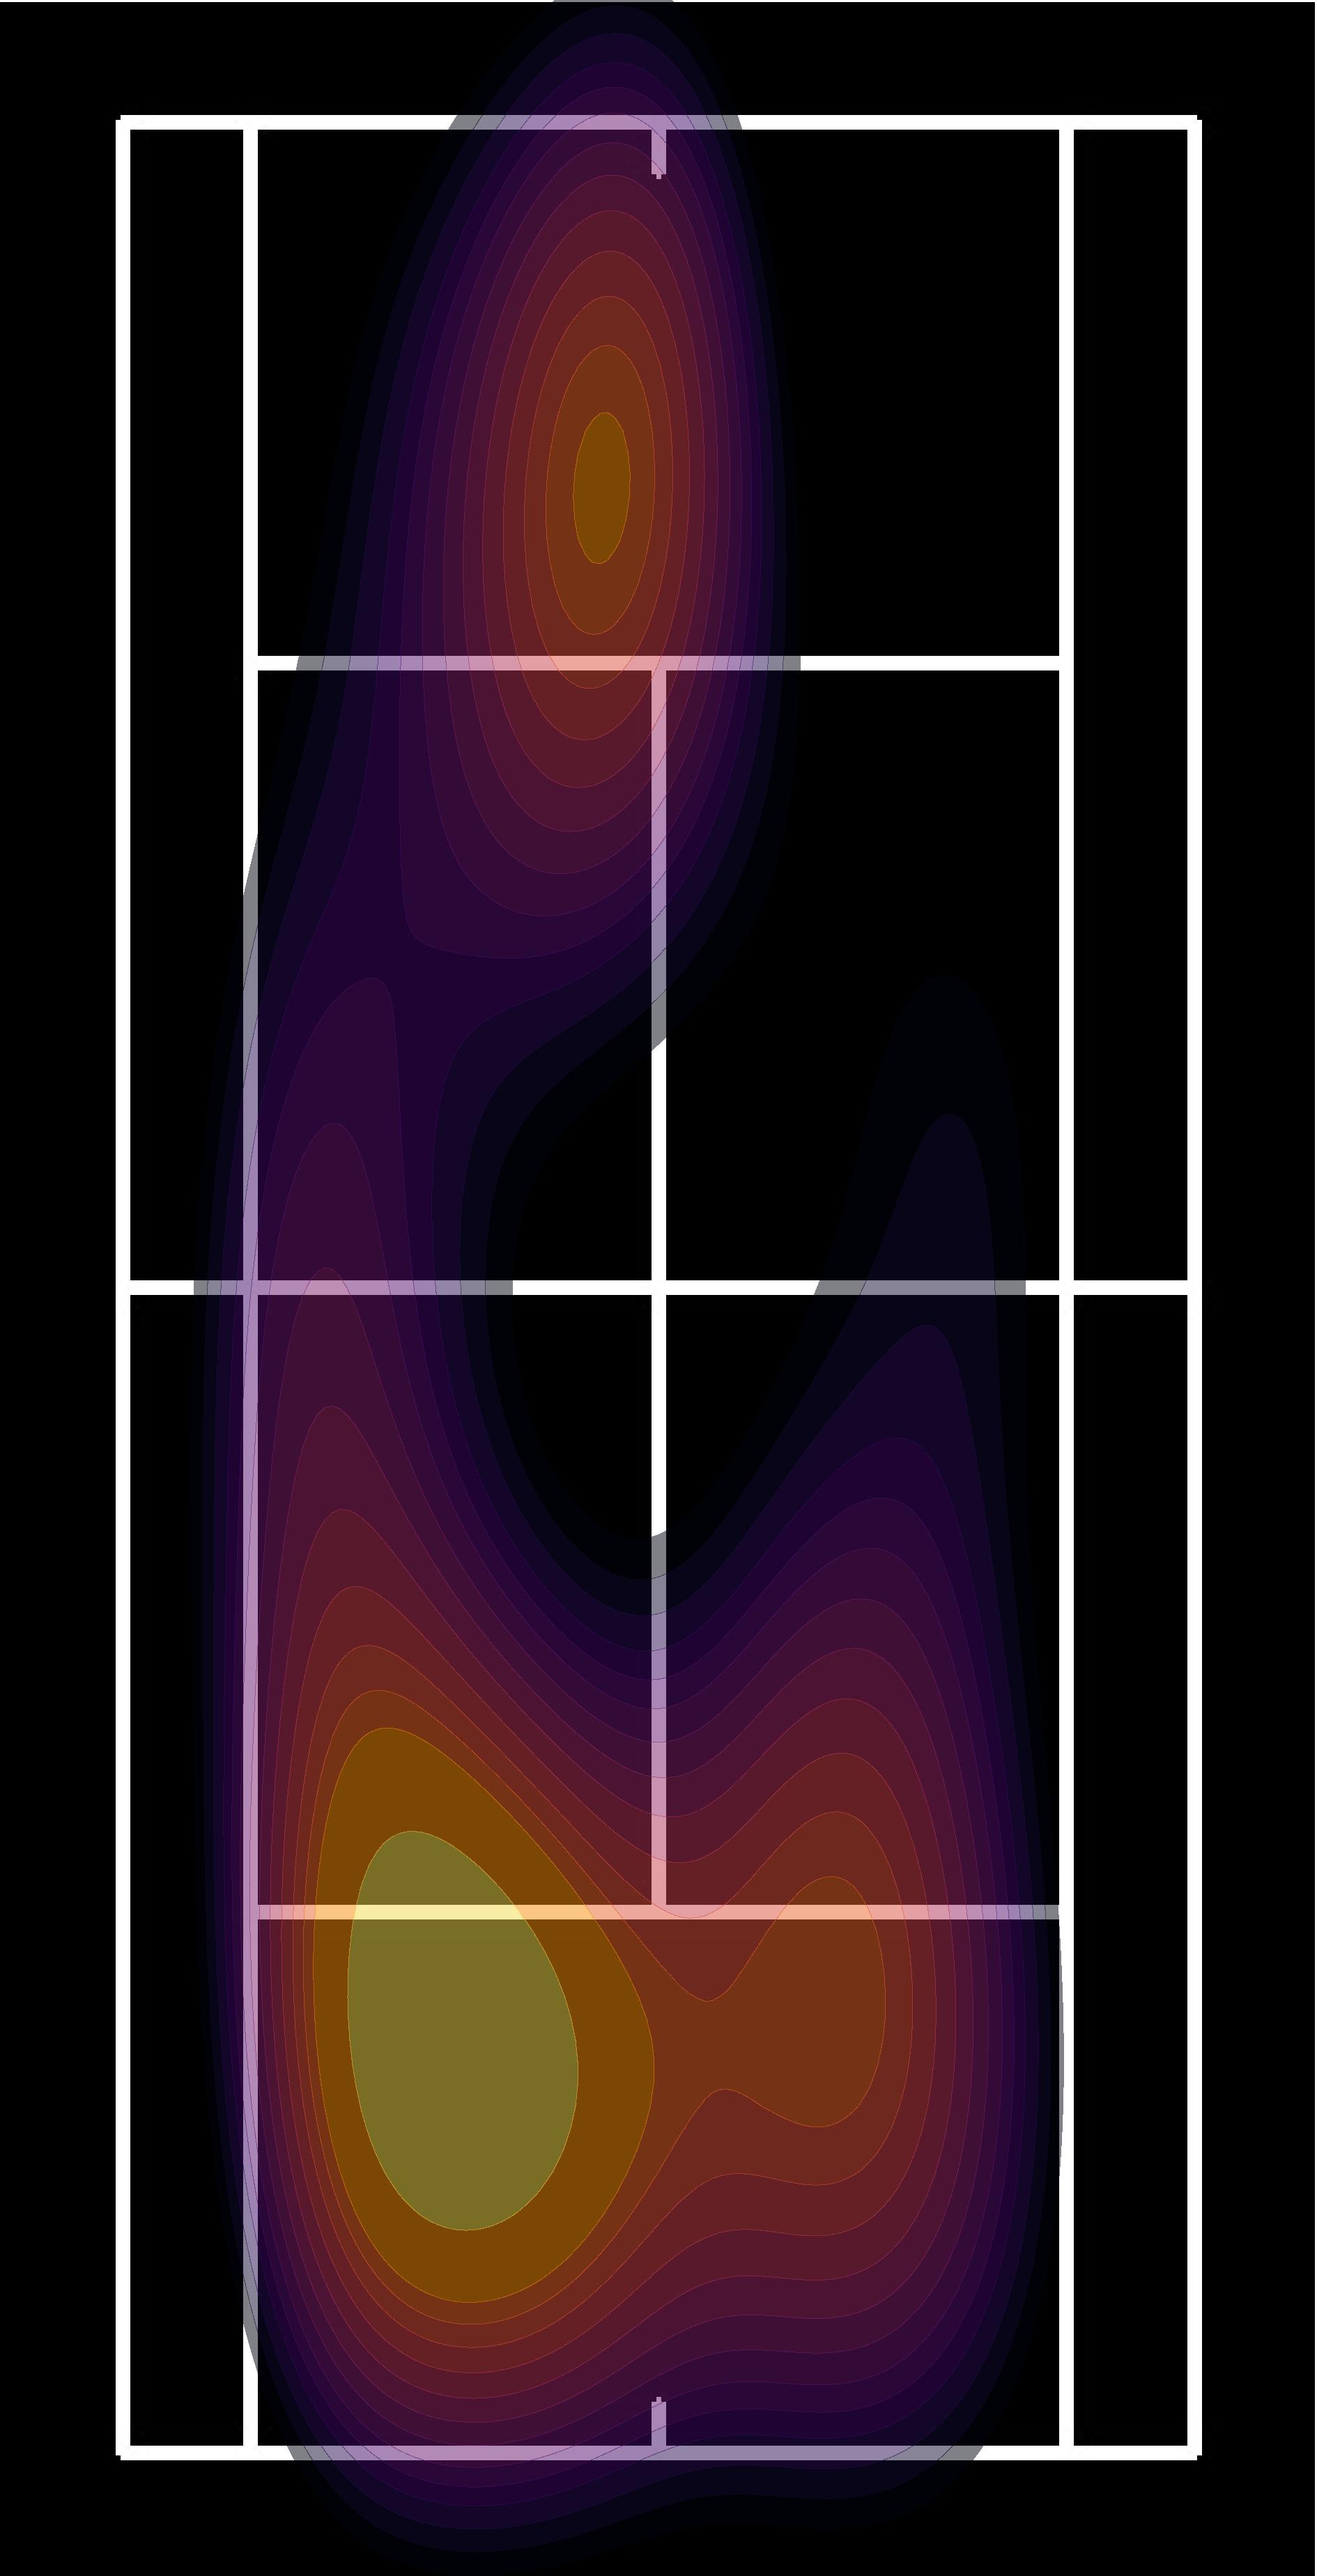
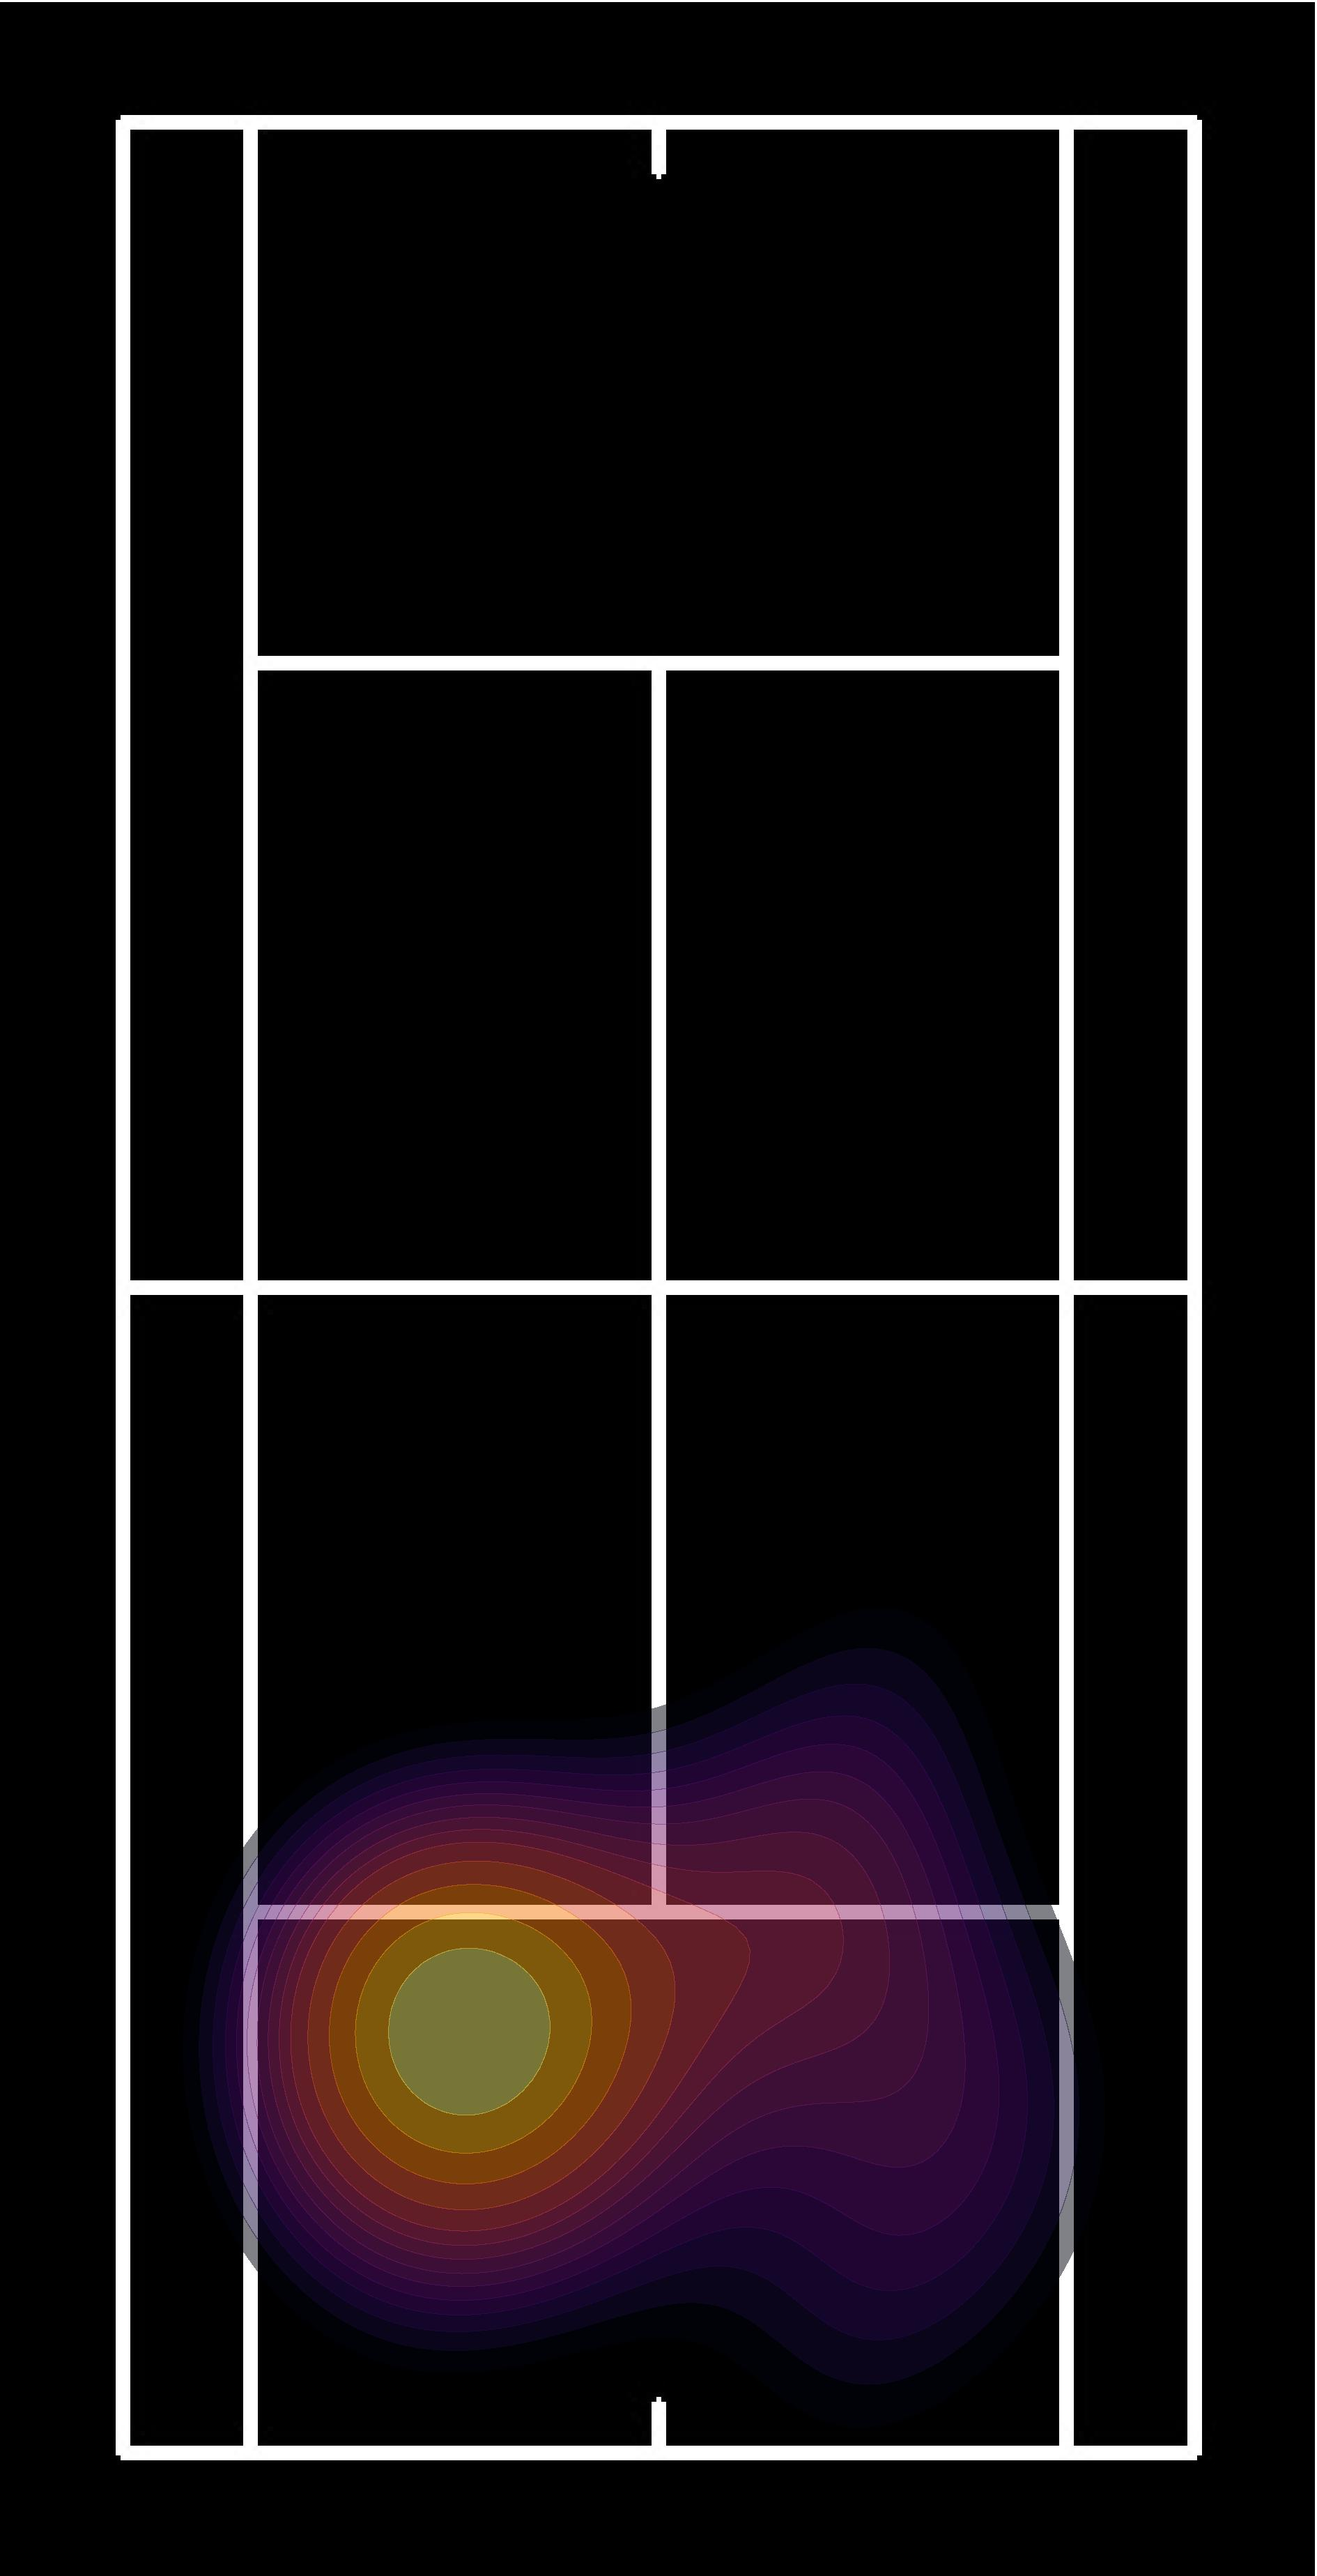
Minor changes

diff --git a/Front-End-Vite/client/src/pages/VideoPage.jsx b/Front-End-Vite/client/src/pages/VideoPage.jsx
@@ -31,9 +31,15 @@ function VideoPage() {
     { x: 300, y: 300, second: 20.0 },
   ];*/
 
+  // script.py
   //const pts_pique = [[[100, 194], 1.4], [[65, 126], 2.03], [[61, 192], 2.77], [[74, 357], 3.03], [[80, 399], 3.43], [[54, 378], 5.7], [[4, 50], 9.07], [[91, 83], 10.93], [[42, 385], 12.53], [[30, 447], 17.97], [[2, 295], 21.33], [[121, 466], 23.6], [[122, 427], 23.63], [[123, 380], 23.67], [[124, 329], 23.7], [[124, 270], 23.73], [[125, 208], 23.8], [[126, 143], 23.83], [[149, 24], 25.93], [[145, 80], 26.1], [[160, 422], 26.87], [[160, 437], 26.9], [[158, 451], 26.93], [[154, 416], 27.0], [[143, 417], 27.03], [[158, 425], 27.13], [[120, 357], 29.27], [[132, 428], 32.07], [[152, 433], 32.4], [[152, 386], 32.43], [[153, 336], 32.47], [[154, 286], 32.5], [[155, 238], 32.53], [[154, 194], 32.6], [[153, 162], 32.63], [[154, 113], 32.67], [[154, 80], 32.7], [[59, 419], 35.0], [[38, 89], 37.47], [[3, 360], 37.97], [[8, 39], 38.23], [[22, 0], 38.27], [[24, 410], 43.2], [[134, 461], 45.77], [[156, 390], 45.97], [[163, 408], 46.03], [[161, 117], 46.7], [[150, 85], 46.73], [[102, 6], 48.73], [[113, 451], 51.4], [[112, 454], 51.43], [[44, 371], 54.93], [[13, 379], 55.47], [[57, 405], 56.37], [[62, 407], 56.63], [[113, 377], 57.7], [[137, 373], 58.07], [[96, 17], 58.4], [[105, 357], 60.33]]
-  const pts_pique = [[[110, 211], 1.4], [[78, 411], 3.43], [[80, 399], 3.47], [[58, 382], 5.7], [[18, 429], 6.2], [[14, 413], 9.07], [[47, 390], 12.53], [[5, 169], 13.33], [[14, 94], 13.37], [[22, 35], 13.43], [[57, 87], 17.5], [[6, 236], 18.43], [[9, 180], 18.47], [[27, 29], 18.6], 
-  [[130, 352], 26.3], [[158, 451], 27.0], [[111, 321], 29.2], [[116, 360], 29.27], [[157, 267], 29.9], [[154, 225], 29.93], [[152, 179], 29.97], [[152, 179], 30.0], [[135, 151], 31.73], [[130, 430], 32.07], [[152, 387], 32.47], [[82, 66], 35.37], [[87, 420], 35.73], [[31, 222], 37.27], [[27, 370], 37.47], [[67, 43], 39.83], [[64, 103], 39.87], [[59, 145], 39.9], [[18, 396], 40.63], [[22, 349], 40.67], [[66, 38], 42.8], [[60, 101], 42.83], [[49, 193], 42.9], [[30, 411], 43.2], [[157, 410], 46.03], [[129, 316], 48.73], [[113, 461], 51.3], [[90, 14], 51.73], [[48, 374], 54.93], [[18, 422], 55.47], [[14, 379], 55.5], [[6, 286], 55.57], [[6, 286], 55.6], [[4, 243], 55.63], [[57, 405], 56.37], [[57, 405], 56.4], [[58, 406], 56.43], [[59, 408], 56.5], [[89, 111], 57.43], [[111, 379], 57.7], [[139, 402], 58.07], [[118, 417], 59.93], [[84, 38], 59.97], [[84, 38], 60.0], [[86, 82], 60.03], [[103, 362], 60.33]]
+  
+  // bounce_detection
+  //const pts_pique = [[[110, 211], 1.4], [[78, 411], 3.43], [[80, 399], 3.47], [[58, 382], 5.7], [[18, 429], 6.2], [[14, 413], 9.07], [[47, 390], 12.53], [[5, 169], 13.33], [[14, 94], 13.37], [[22, 35], 13.43], [[57, 87], 17.5], [[6, 236], 18.43], [[9, 180], 18.47], [[27, 29], 18.6], 
+  //[[130, 352], 26.3], [[158, 451], 27.0], [[111, 321], 29.2], [[116, 360], 29.27], [[157, 267], 29.9], [[154, 225], 29.93], [[152, 179], 29.97], [[152, 179], 30.0], [[135, 151], 31.73], [[130, 430], 32.07], [[152, 387], 32.47], [[82, 66], 35.37], [[87, 420], 35.73], [[31, 222], 37.27], [[27, 370], 37.47], [[67, 43], 39.83], [[64, 103], 39.87], [[59, 145], 39.9], [[18, 396], 40.63], [[22, 349], 40.67], [[66, 38], 42.8], [[60, 101], 42.83], [[49, 193], 42.9], [[30, 411], 43.2], [[157, 410], 46.03], [[129, 316], 48.73], [[113, 461], 51.3], [[90, 14], 51.73], [[48, 374], 54.93], [[18, 422], 55.47], [[14, 379], 55.5], [[6, 286], 55.57], [[6, 286], 55.6], [[4, 243], 55.63], [[57, 405], 56.37], [[57, 405], 56.4], [[58, 406], 56.43], [[59, 408], 56.5], [[89, 111], 57.43], [[111, 379], 57.7], [[139, 402], 58.07], [[118, 417], 59.93], [[84, 38], 59.97], [[84, 38], 60.0], [[86, 82], 60.03], [[103, 362], 60.33]]
+  
+  // ball_tracking de ary
+  const pts_pique = [[[1501, 2915], 1.4], [[937, 2991], 2.77], [[1115, 5361], 3.03], [[1200, 5990], 3.43], [[814, 5683], 5.7], [[318, 5784], 6.2], [[108, 6114], 9.07], [[635, 5787], 12.53], [[635, 5787], 12.57], [[463, 6707], 17.97], [[1828, 6992], 23.6], [[1810, 5364], 29.27], [[1991, 6432], 32.07], [[2287, 6502], 32.4], [[895, 6292], 35.0], [[331, 5490], 37.47], [[366, 6156], 43.2], [[2354, 5850], 45.97], [[2446, 6124], 46.03], [[2022, 4625], 48.73], [[2022, 4625], 48.77], [[1702, 6779], 51.4], [[673, 5577], 54.93], [[673, 5577], 54.97], [[209, 5695], 55.47], [[861, 6080], 56.37], [[936, 6107], 56.63], [[1708, 5658], 57.7], [[2062, 5600], 58.07], [[1579, 5368], 60.33], [[1579, 5368], 60.37]]
   console.log("asdasd " + pts_pique[0])
   const canvas = useRef(null);
 
@@ -58,7 +64,7 @@ function VideoPage() {
 
         const drawCircle = (pt) => {   
             circle.beginPath();
-            circle.arc(pt[0][0] + 51, pt[0][1] + 25, 3.5, 0, Math.PI * 2);
+            circle.arc(parseInt((pt[0][0]) / 15) + 51, parseInt((pt[0][1]) / 15) + 25, 3.5, 0, Math.PI * 2);
             circle.fillStyle = "#4ECB71";
             circle.fill();
             circle.closePath();

diff --git a/Bounce_Detection/heatmap.py b/Bounce_Detection/heatmap.py
@@ -12,15 +12,20 @@ plt.axis('off')
 
 # Recibe los puntos de pique
 #pts = [[10, 100], [20, 200], [110, 200], [150, 100], [80, 350], [140, 300], [120, 400], [50, 70], [35, 450]]
-pts = [(110, 211), (78, 411), (80, 399), (58, 382), (18, 429), (14, 413), (47, 390), (5, 169), (14, 94), (22, 35), (57, 87), (6, 236), (9, 180), (27, 29), (130, 352), (158, 451), (111, 321), (116, 360), (157, 267), (154, 225), (152, 179), (152, 179), (135, 151), (130, 430), (152, 387), (82, 66), (87, 420), (31, 222), (27, 370), (67, 43), (64, 103), (59, 145), (18, 396), (22, 349), (66, 38), (60, 101), (49, 193), (30, 411), (157, 410), (129, 316), (113, 461), (90, 14), (48, 374), (18, 422), (14, 379), (6, 286), (6, 286), (4, 243), (57, 405), (57, 405), (58, 406), (59, 408), (89, 111), (111, 379), (139, 402), (118, 417), (84, 38), (84, 38), (86, 82), (103, 362)]
+#pts = [(110, 211), (78, 411), (80, 399), (58, 382), (18, 429), (14, 413), (47, 390), (5, 169), (14, 94), (22, 35), (57, 87), (6, 236), (9, 180), (27, 29), (130, 352), (158, 451), (111, 321), (116, 360), (157, 267), (154, 225), (152, 179), (152, 179), (135, 151), (130, 430), (152, 387), (82, 66), (87, 420), (31, 222), (27, 370), (67, 43), (64, 103), (59, 145), (18, 396), (22, 349), (66, 38), (60, 101), (49, 193), (30, 411), (157, 410), (129, 316), (113, 461), (90, 14), (48, 374), (18, 422), (14, 379), (6, 286), (6, 286), (4, 243), (57, 405), (57, 405), (58, 406), (59, 408), (89, 111), (111, 379), (139, 402), (118, 417), (84, 38), (84, 38), (86, 82), (103, 362)]
+pts = [[[1501, 2915], 1.4], [[937, 2991], 2.77], [[1115, 5361], 3.03], [[1200, 5990], 3.43], [[814, 5683], 5.7], [[318, 5784], 6.2], [[108, 6114], 9.07], [[635, 5787], 12.53], [[635, 5787], 12.57], [[463, 6707], 17.97], [[1828, 6992], 23.6], [[1810, 5364], 29.27], [[1991, 6432], 32.07], [[2287, 6502], 32.4], [[895, 6292], 35.0], [[331, 5490], 37.47], [[366, 6156], 43.2], [[2354, 5850], 45.97], [[2446, 6124], 46.03], [[2022, 4625], 48.73], [[2022, 4625], 48.77], [[1702, 6779], 51.4], [[673, 5577], 54.93], [[673, 5577], 54.97], [[209, 5695], 55.47], [[861, 6080], 56.37], [[936, 6107], 56.63], [[1708, 5658], 57.7], [[2062, 5600], 58.07], [[1579, 5368], 60.33], [[1579, 5368], 60.37]]
+pts2 = []
 ptX = []
 ptY = []
 
-# Transforma los puntos en dos listas (X, Y)
 for pt in pts:
+    pts2.append((int(pt[0][0] / 15), int(pt[0][1] / 15)))
+
+# Transforma los puntos en dos listas (X, Y)
+for pt in pts2:
     ptX.append(pt[0] + 51)
 
-for pt in pts:
+for pt in pts2:
     ptY.append(499 - pt[1])
 
 # Crea el heatmap
@@ -40,6 +45,5 @@ plt.xlim(0, 268); plt.ylim(0, 524)
 # Guarda el heatmap
 plt.savefig("heatmap.jpg",dpi = 1000, bbox_inches = 'tight', pad_inches = 0)
 
-image = open('heatmap.jpg', 'rb')
-image64 = b64encode(image.read())
-print(image64)
+plt.clf()
+plt.close()

diff --git a/Tracker/trackerV1/ball_tracking_test_fn_ary.py b/Tracker/trackerV1/ball_tracking_test_fn_ary.py
@@ -526,7 +526,7 @@ def todo(frame, numeroGlob):
                     print("Gerard", Gerard)
                 countDifPiques = 0
                 frame = cv2.putText(frame, 'Gerard', (preCentro_glob[numeroGlob][0][0], preCentro_glob[numeroGlob][0][1]), cv2.FONT_HERSHEY_COMPLEX, 3, (0, 0, 255), 0, 2)
-                pts_pique.append([[preCentro_glob[numeroGlob]], numeroFrame])
+                pts_pique.append([[preCentro_glob[numeroGlob][0][0], preCentro_glob[numeroGlob][0][1]], float("{:.2f}".format(numeroFrame / fps))])
                 print("ES ESTE", pts_pique)
                 velocidad = True
                 punto1Velocidad = preCentro_glob[numeroGlob]

diff --git a/Back-End-Flask/heatmap.py b/Back-End-Flask/heatmap.py
@@ -39,6 +39,9 @@ def heatmap(pts):
     # Guarda el heatmap
     plt.savefig("heatmap.jpg",dpi = 1000, bbox_inches = 'tight', pad_inches = 0)
 
+    plt.clf()
+    plt.close()
+
     image = open('heatmap.jpg', 'rb')
     image64 = b64encode(image.read())
 
